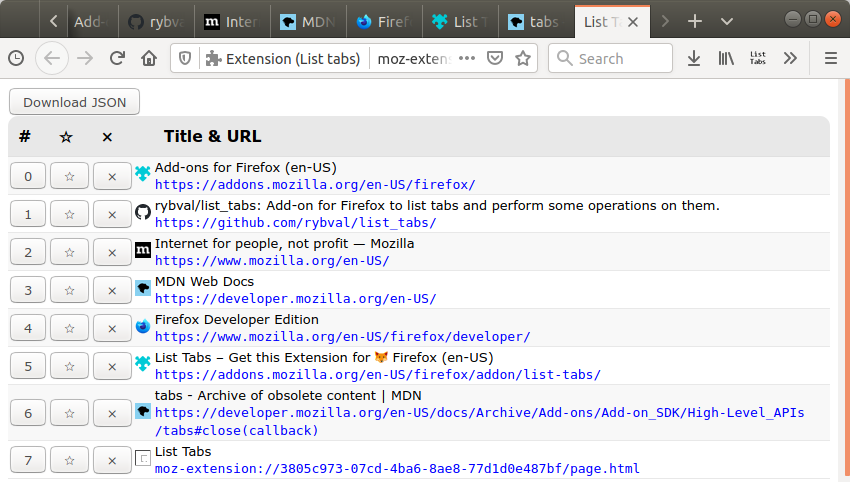
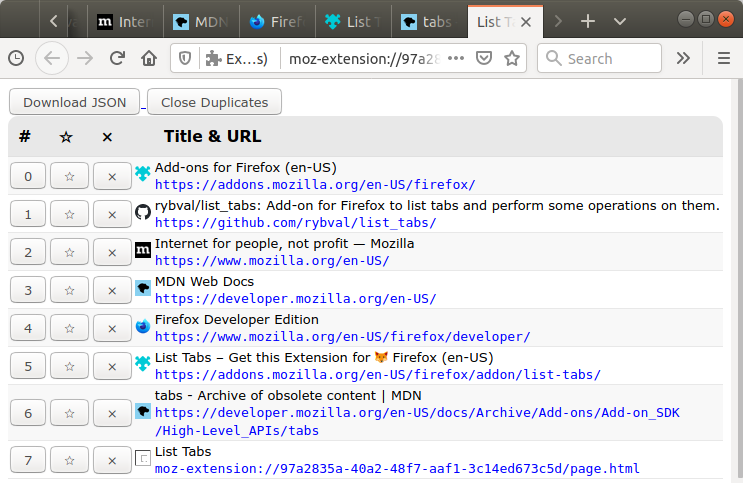
Add a button for removing duplicates
Resolves #15

diff --git a/buildpage.js b/buildpage.js
@@ -18,6 +18,8 @@ browser.tabs.query({currentWindow: true}).then(tabs => {
   createTable(tabs);
 });
 
+document.getElementById('close_duplicates').onclick = closeDuplicates;
+
 function createTable(tabs) {
   var table = document.createElement("table");
 
@@ -152,4 +154,16 @@ function createFavicon(url) {
   img.height = 16;
   img.width = 16;
   return img;
+}
+
+function closeDuplicates() {
+  let urls = new Set();
+  for (let tab of tabs_cache) {
+    if (urls.has(tab.url)) {
+      browser.tabs.remove(tab.id);
+    } else {
+      urls.add(tab.url);
+    }
+  }
+  document.location.reload(true);
 }

diff --git a/page.html b/page.html
@@ -9,6 +9,7 @@
     <a id="download_json" href="">
       <button type="button">Download JSON</button>
     </a>
+    <input id="close_duplicates" value="Close Duplicates" type="button">
   </body>
   <script src="buildpage.js"></script>
 </html>

diff --git a/CHANGELOG.md b/CHANGELOG.md
@@ -3,6 +3,10 @@ All notable changes to this project will be documented in this file.
 
 The format is based on [Keep a Changelog](http://keepachangelog.com/).
 
+## [2.1.0] — 2020.04.30
+### Added
+- Close duplicates button.
+
 ## [2.0.2] — 2020.04.19
 ### Added
 - Saving tabs list as a JSON file.
@@ -49,6 +53,7 @@ The format is based on [Keep a Changelog](http://keepachangelog.com/).
 ### Added
 - Page, containing table with information about tabs and some tools.
 
+[2.1.0]: https://github.com/rybval/list_tabs/compare/v2.0.2...v2.1.0
 [2.0.2]: https://github.com/rybval/list_tabs/compare/v2.0.1...v2.0.2
 [2.0.1]: https://github.com/rybval/list_tabs/compare/v2.0.0...v2.0.1
 [2.0.0]: https://github.com/rybval/list_tabs/compare/v1.3...v2.0.0

diff --git a/README.md b/README.md
@@ -14,7 +14,9 @@ Available operations:
 - make active
 - create a bookmark
 - close
+- download all the tabs' urls and titles as a JSON file
+- close all duplicates
 
 Screenshot:
 
-![Screenshot](https://raw.githubusercontent.com/rybval/list_tabs/e42fa920e857b68d7a51881ca4a17f41171e8320/screenshot.png)
+![Screenshot](https://raw.githubusercontent.com/rybval/list_tabs/v2.1.0/screenshot.png)
